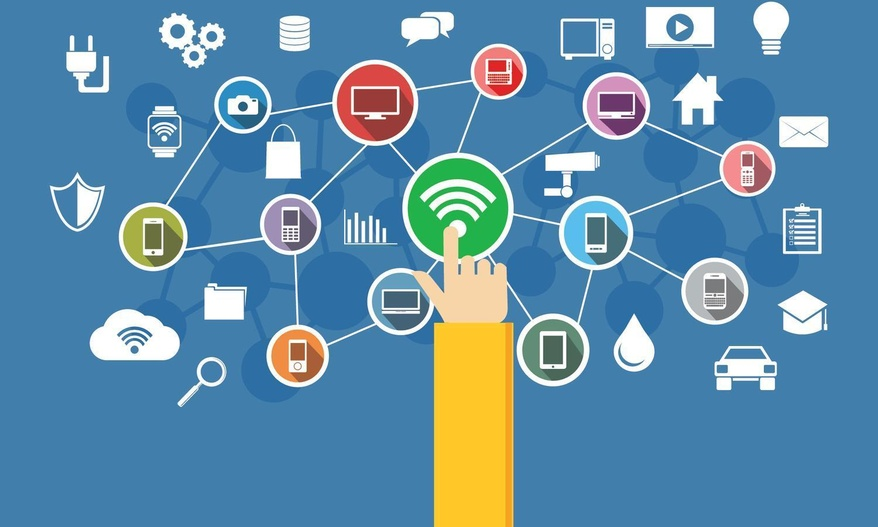
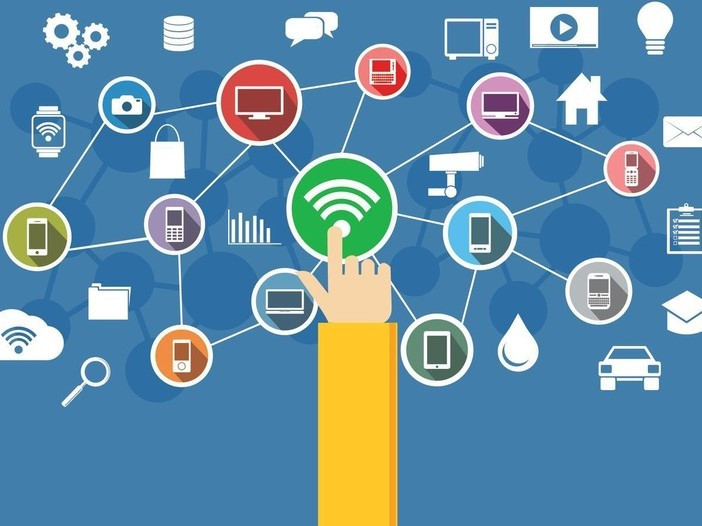
Add files via upload

diff --git a/index.html b/index.html
@@ -12,15 +12,25 @@
 	<style>
 		#resume{
 		text-align: center;
+		height: auto;
+		width: 60%;
+		margin-left: auto;
+		margin-right: auto;
 		}	
 		.titles{
 		font-size: 30px;
 		}
 		#contactInfo{
 		text-align: center;
+		height: auto;
+		width: 5%;
+		margin-left: auto;
+		margin-right: auto;
 		}
 		#headshot{
 		text-align: center;
+		height: auto;
+		width: 75%;
 		}
 		</style>
   </head>
@@ -45,16 +55,18 @@
     <h1>Sarah Mauricio</h1>
 	<br>
     	<div class="container">
+		<h2>Hello!</h2>
   <div class="row">
     <div class="col">
       <p>
-	<h2>Hello!</h2>
+	
     <p>
 	My name is Sarah Mauricio and I am a first year <strong>Computer Science & 
 	Engineering</strong> major at <strong>Universtity of Califonia, Los Angeles</strong>. After taking AP Computer Science A and AP Computer Science Principles in high school, I realized 
-	it was clear to me that I should major in computer science because of how much I enjoyed these classes. Knowing that I could make a computer complete tasks and alter the weay things look fascinates me. 
+	that I should major in computer science because of how much I enjoyed these classes. Knowing that I could make a computer complete tasks and alter the weay things look fascinates me. 
 	My favorite areas in computer science are web development and software engineering. 
 	I just recently began exploring web development and I have found it very interesting. I am looking forward to learning new techniques and using these skills to build better websites.
+	My dream job would be to work at a social media company like Snapchat or Instagram. These companies have changed the way people communicate with one another and I want to be part of the next phase of changes they make in the social media field.
 	</p>
 	  </p>
     </div>

diff --git a/QuickFacts.html b/QuickFacts.html
@@ -49,7 +49,9 @@
 			<ul>
 			<li>UCLA Center for Excellence in Engineering and Diversity (CEED)</li>
 			<li>Society of Latino Engineers (SOLES)</li>
-				
+				<ul>
+					<li>SOLES Fundraising Board Intern</li>
+				</ul>
 			<li>Association of Computing Association (ACM)</li>
 			<li>Naitonal Society of Black Engineers (NSBE)</li>
 			<li>Society of Women Engineers (SWE)</li>
@@ -80,6 +82,19 @@
 			<li>UCLA Club Field Hockey</li>
 			</ul>
 		<br>
+		<li><strong>Helix Charter High School</strong></li>
+			<ul>
+			<li>AP Computer Science Principles</li>
+			<li>AP Computer Science A</li>
+			<li>Varsity Track & Field				(10th-12th)</li>
+			<li>Varisty Soccer						(11th-12th)</li>
+			<li>Varsity Field Hockey 				(11th-12th)</li>
+			<li>Key Club Vice President 			(11th)</li>
+			<li>Key Club							(10th-12th)</li>
+			<li>National Honors Society				(9th-12th)</li>
+			<li>California Scholarhsip Federation	(10th-12th)</li>
+			<li>El Cajon Matrix Soccer Team Captain	(9th-12th)</li>
+			</ul>
     </ul>
     </div>
 

diff --git a/IOTResearch.html b/IOTResearch.html
@@ -12,6 +12,7 @@
 	<style>
 		#IOT{
 		text-align: center;
+		height:auto;
 		}
 		#codeOutput{
 		text-align:center;
@@ -38,11 +39,26 @@
 <br>
 
     <div class = "container">
-    <h1>Internet of Things Research</h1>
-	<p id= "IOT">
-    <img src = "IOT.jpg" alt = "Impact of Internet of Things" width = "365">
-	<img src = "IOT3.jpg" alt = "IOT picture" width = 325>
-	<img src = "IOT2.jpg" alt = "Interconnectedness of everything with IOT" width= 325>
+	   	<div class="container">
+		<h1>Internet of Things Research</h1>
+		<p id = "IOT">
+  <div class="row">
+    <div class="col">
+      <p>
+	<img src = "IOT.jpg" alt = "Impact of Internet of Things" width = "325">
+	  </p>
+    </div>
+    <div class="col">
+	<p>
+      <img src = "IOT3.jpg" alt = "IOT picture" width = "325">
+	  </p>
+    </div>
+	<div class="col">
+      <p>
+	<img src = "IOT2.jpg" alt = "Interconnectedness of everything with IOT" width= "325">
+	  </p>
+  </div>
+  </div>
 	</p>
     <h2>SensorTile Research Team</h2>
     <p>

diff --git a/SarahsWebsiteCSS.css b/SarahsWebsiteCSS.css
@@ -18,3 +18,8 @@ p{
 font-family: Times New Roman;
 font-size: 20px;
 }
+
+img{
+	height: auto;
+	width: 100%
+}
